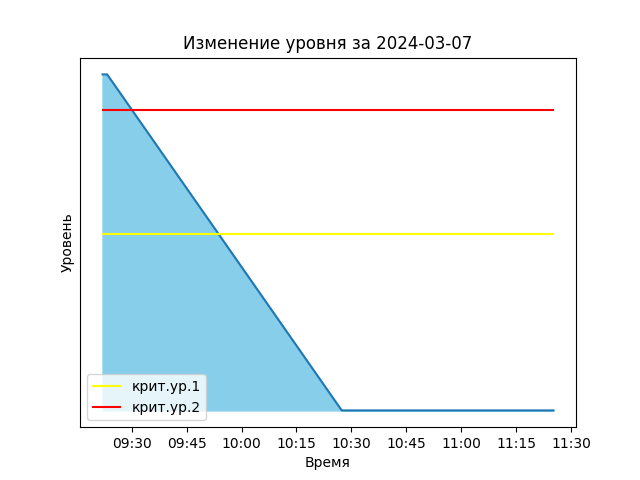
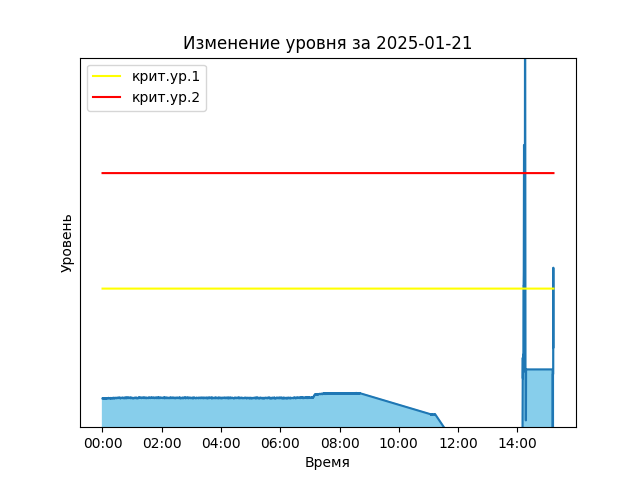
исправление ошибок, перенос констант-аварий в конфиг

diff --git a/service/los.py b/service/los.py
@@ -1,5 +1,3 @@
-from enum import StrEnum
-
 from aiogram import Bot
 from apscheduler.executors.base import logging
 from sqlalchemy.ext.asyncio import AsyncSession, async_sessionmaker
@@ -14,14 +12,6 @@ logger = logging.getLogger(__name__)
 default_accidents = 0
 
 
-class Messages(StrEnum):
-    SENSOR_FAILURE = "Авария датчика уровня!"
-    FIRST_CRIT_LEVEL = "Первый критический уровень, необходимо проверить работу насоса!"
-    SECOND_CRIT_LEVEL = "Второй критический уровень, ёмкость скоро переполнится!"
-    CURR_SENSOR_FAILURE = "Авария датчика тока!"
-    HIGH_CURRENT_FAILURE = "Превышение рабочего тока!"
-    POSSIBLY_LACK_OF_POWER = "Возможно, насос неисправен или на него не подается питание, превышение уровня воды включения насоса!"
-    POSSIBLY_DEFECTIVE_PUMP = "Неисправен насос или засорение водопровода - уровень жидкости не падает при работе насоса!"
 
 
 def is_warning(level) -> bool:
@@ -48,13 +38,13 @@ async def check_alarm(bot: Bot, db_pool: async_sessionmaker[AsyncSession]):
             return
         match level.level:
             case l if is_failure(l):
-                txt = Messages.SENSOR_FAILURE
+                txt = settings.alarms.SENSOR_FAILURE
             case l if is_warning(l):
-                txt = Messages.FIRST_CRIT_LEVEL
+                txt = settings.alarms.FIRST_CRIT_LEVEL
             case l if is_critical(l):
-                txt = Messages.SECOND_CRIT_LEVEL
+                txt = settings.alarms.SECOND_CRIT_LEVEL
             case l if l >= settings.tank.pump_on:
-                txt = Messages.POSSIBLY_LACK_OF_POWER
+                txt = settings.alarms.POSSIBLY_LACK_OF_POWER
 
         if txt:
             await send_message(txt, session, bot)
@@ -66,13 +56,13 @@ async def check_level(
     txt = ""
     match prev_level, level:
         case p, c if not is_failure(p) and is_failure(c):
-            txt = Messages.SENSOR_FAILURE
+            txt = settings.alarms.SENSOR_FAILURE
         case p, c if not is_warning(p) and is_warning(c):
-            txt = Messages.FIRST_CRIT_LEVEL
+            txt = settings.alarms.FIRST_CRIT_LEVEL
         case p, c if not is_critical(p) and is_critical(c):
-            txt = Messages.SECOND_CRIT_LEVEL
+            txt = settings.alarms.SECOND_CRIT_LEVEL
         case p, c if p < settings.tank.pump_on and c >= settings.tank.pump_on:
-            txt = Messages.POSSIBLY_LACK_OF_POWER
+            txt = settings.alarms.POSSIBLY_LACK_OF_POWER
 
     if txt:
         await send_message(txt, session, bot)
@@ -82,12 +72,12 @@ async def check_accidents(accidents: int, session: AsyncSession, bot: Bot):
     txt = ""
     match accidents:
         case 1:
-            txt = Messages.HIGH_CURRENT_FAILURE
+            txt = settings.alarms.HIGH_CURRENT_FAILURE
         case 2:
-            txt = Messages.POSSIBLY_DEFECTIVE_PUMP
+            txt = settings.alarms.POSSIBLY_DEFECTIVE_PUMP
         case 3:
             txt = (
-                Messages.HIGH_CURRENT_FAILURE + "\n" + Messages.POSSIBLY_DEFECTIVE_PUMP
+                settings.alarms.HIGH_CURRENT_FAILURE + "\n" + settings.alarms.POSSIBLY_DEFECTIVE_PUMP
             )
     await send_message(txt, session, bot)
 
@@ -113,6 +103,6 @@ async def poll_and_save(bot: Bot, db_pool: async_sessionmaker[AsyncSession]):
 
         if rr["accidents"] and rr["accidents"] != default_accidents:
             await check_accidents(rr["accidents"], session, bot)
-            default_accidents = rr["accidents"]
 
+        default_accidents = rr["accidents"]
         await los.new(session, curr_level)

diff --git a/test.py b/test.py
@@ -1,19 +1,14 @@
-from datetime import date 
-from apscheduler.schedulers.asyncio import asyncio
-from sqlalchemy import func, select
-from sqlalchemy.ext.asyncio import async_sessionmaker, create_async_engine
-from config import settings
-from db.models import Level
+from enum import StrEnum
 
 
-engine = create_async_engine(settings.sqlite_async_dsn, echo=False)
-db_pool = async_sessionmaker(engine, expire_on_commit=False)
+class Alarms(StrEnum):
+    SENSOR_FAILURE = "Авария датчика уровня!"
+    FIRST_CRIT_LEVEL = "Первый критический уровень, необходимо проверить работу насоса!"
+    SECOND_CRIT_LEVEL = "Второй критический уровень, ёмкость скоро переполнится!"
+    CURR_SENSOR_FAILURE = "Авария датчика тока!"
+    HIGH_CURRENT_FAILURE = "Превышение рабочего тока, проверьте насос!"
+    POSSIBLY_LACK_OF_POWER = "Возможно, насос неисправен или на него не подается питание, превышение уровня воды включения насоса!"
+    POSSIBLY_DEFECTIVE_PUMP = "Неисправен насос или засорение водопровода - уровень жидкости не падает при работе насоса!"
 
-async def main():
-    curr_date = date.today()
-    async with db_pool() as session:
-        query = select(Level).where(func.date(Level.timestamp) == curr_date.isoformat())
-        data = await session.scalars(query)
-        print(data.all())
+ALARMS = Alarms
 
-asyncio.run(main())

diff --git a/service/mailing.py b/service/mailing.py
@@ -1,19 +1,31 @@
+import logging
+
 from aiogram import Bot
+from aiogram.exceptions import TelegramBadRequest, TelegramForbiddenError
 from aiogram.types import InlineKeyboardButton
 from aiogram.utils.keyboard import InlineKeyboardBuilder
 from sqlalchemy.ext.asyncio import AsyncSession
 
 from db.repo import users as users_repo
+from config import settings
+
+logger = logging.getLogger(__name__)
 
 
 async def send_message(message: str, session: AsyncSession, bot: Bot):
     users = await users_repo.get_all(session)
     builder = InlineKeyboardBuilder()
-    builder.add(InlineKeyboardButton(text="Сброс", callback_data="reset_warning"))
+    if not message == settings.alarms.POSSIBLY_LACK_OF_POWER:
+        builder.add(InlineKeyboardButton(text="Сброс", callback_data="reset_warning"))
 
     for user in users:
-        await bot.send_message(
-            chat_id=user.id,
-            text=message,
-            reply_markup=builder.as_markup(),
-        )
+        try:
+            await bot.send_message(
+                chat_id=user.id,
+                text=message,
+                reply_markup=builder.as_markup(),
+            )
+        except TelegramBadRequest:
+            pass
+        except TelegramForbiddenError as errr:
+            logger.error(f"{message}:\nОшибка отправки: {str(errr)}")

diff --git a/routers.py b/routers.py
@@ -14,7 +14,7 @@ start_router = Router()
 @start_router.message(CommandStart())
 async def start_nandler(msg: Message, dialog_manager: DialogManager):
     start_state = MainSG.passw
-    user = users.get_one(
+    user = await users.get_one(
         dialog_manager.middleware_data["session"],
         msg.from_user.id,
     )
@@ -26,9 +26,9 @@ async def start_nandler(msg: Message, dialog_manager: DialogManager):
 @start_router.callback_query(F.data == "reset_warning")
 async def reset_warning(clb: CallbackQuery):
     async with await create_modbus_client() as client:
-        await client.write_register(555, 1)
+        await client.write_register(517, 1, slave=16)
         await asyncio.sleep(1)
-        await client.write_register(555, 0)
+        await client.write_register(517, 0, slave=16)
 
         await clb.answer("Звуковая сигнализация сброшена", show_alert=True)
         if clb.message and not isinstance(clb.message, InaccessibleMessage):

diff --git a/config.py b/config.py
@@ -1,3 +1,4 @@
+from enum import StrEnum
 from pydantic import BaseModel, SecretStr
 from pydantic_settings import BaseSettings, SettingsConfigDict
 
@@ -14,6 +15,14 @@ class TankVars(BaseModel):
     critical: int
     pump_on: float
 
+class Alarms(BaseModel):
+    SENSOR_FAILURE: str
+    FIRST_CRIT_LEVEL: str
+    SECOND_CRIT_LEVEL: str
+    CURR_SENSOR_FAILURE: str
+    HIGH_CURRENT_FAILURE: str
+    POSSIBLY_LACK_OF_POWER: str
+    POSSIBLY_DEFECTIVE_PUMP: str
 
 class Settings(BaseSettings):
     bot_token: SecretStr
@@ -21,6 +30,7 @@ class Settings(BaseSettings):
     modbus: ModbusSettings
     passwd: SecretStr
     tank: TankVars
+    alarms: Alarms
 
     @property
     def sqlite_async_dsn(self):

diff --git a/service/modbus.py b/service/modbus.py
@@ -1,4 +1,5 @@
 from apscheduler.executors.base import logging
+from pymodbus.framer import FramerType
 from config import settings
 from pymodbus.client import AsyncModbusTcpClient, ModbusBaseClient
 from pymodbus.exceptions import ModbusException
@@ -22,6 +23,7 @@ def process_data(client: ModbusBaseClient, data: list):
 async def create_modbus_client():
     return AsyncModbusTcpClient(
         settings.modbus.host,
+        framer=FramerType.RTU,
         port=settings.modbus.port,
         timeout=3,
         retries=1,

diff --git a/handlers.py b/handlers.py
@@ -52,7 +52,7 @@ async def on_date_clicked(
     clicked_date: datetime.date,
     /,
 ):
-    data = await los.get_by_date(manager.middleware_data["sesson"], clicked_date)
+    data = await los.get_by_date(manager.middleware_data["session"], clicked_date)
     if data:
         PlotService.archive_levels(data)
         await manager.switch_to(MainSG.archive)

diff --git a/service/plot.py b/service/plot.py
@@ -89,5 +89,6 @@ class PlotService:
         plt.xlabel("Время")
         plt.ylabel("Уровень")
         plt.yticks([])
+        plt.gca().set_ylim(4, 20)
         plt.legend()
         plt.savefig("media/l_history.png")
